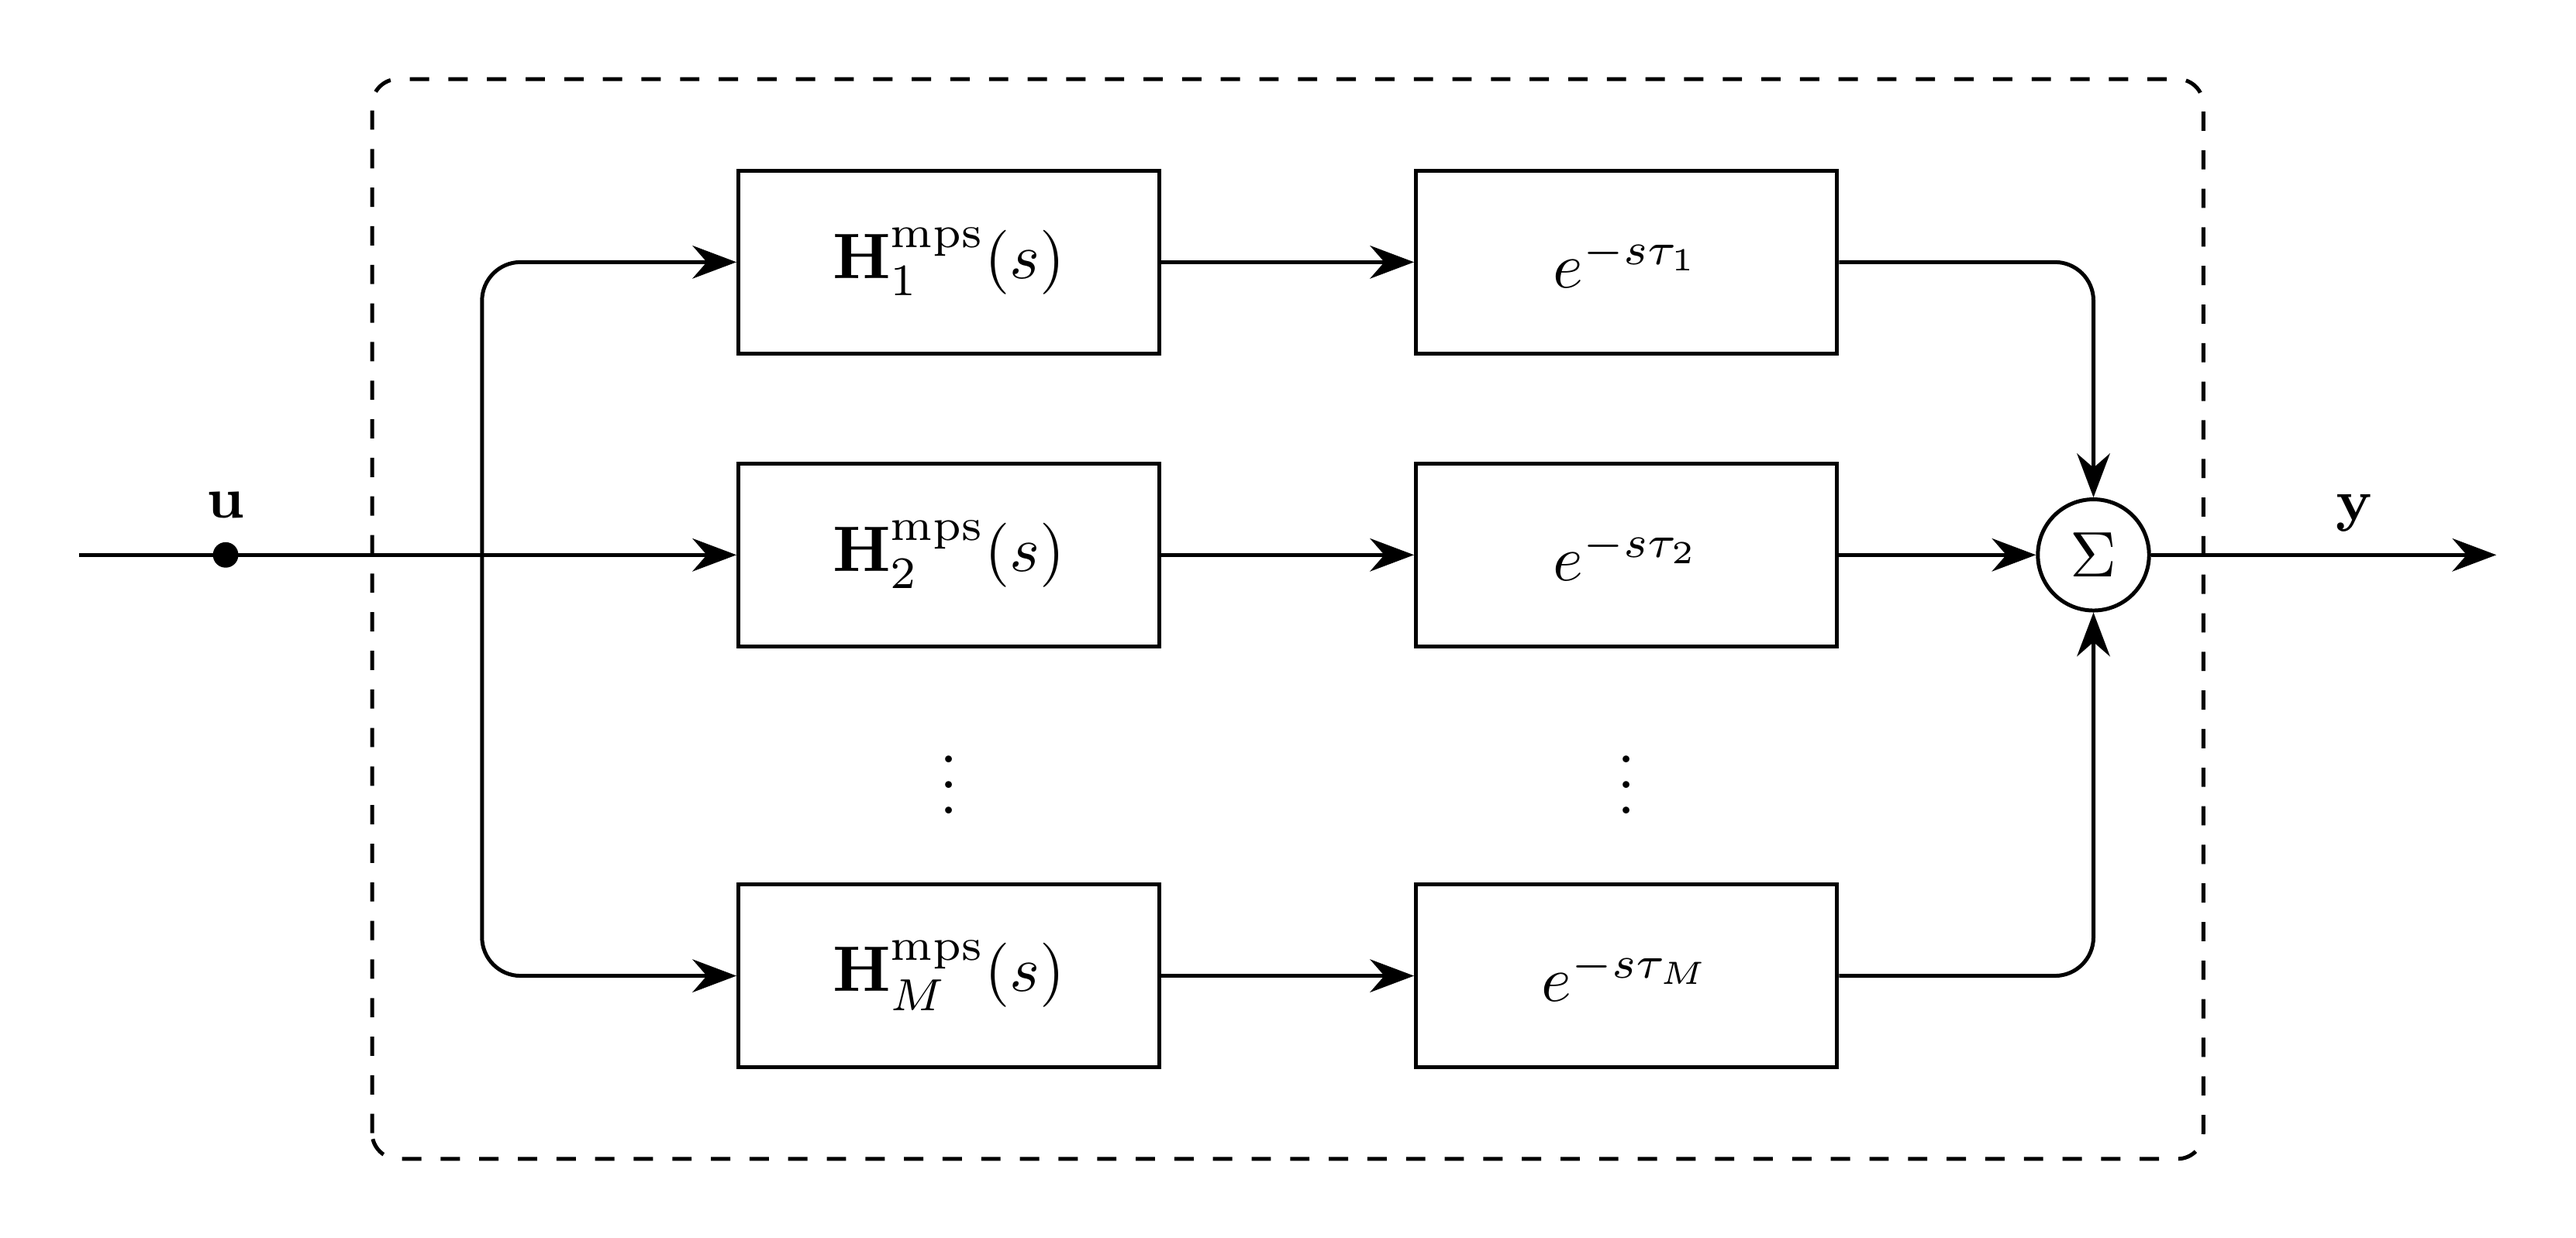
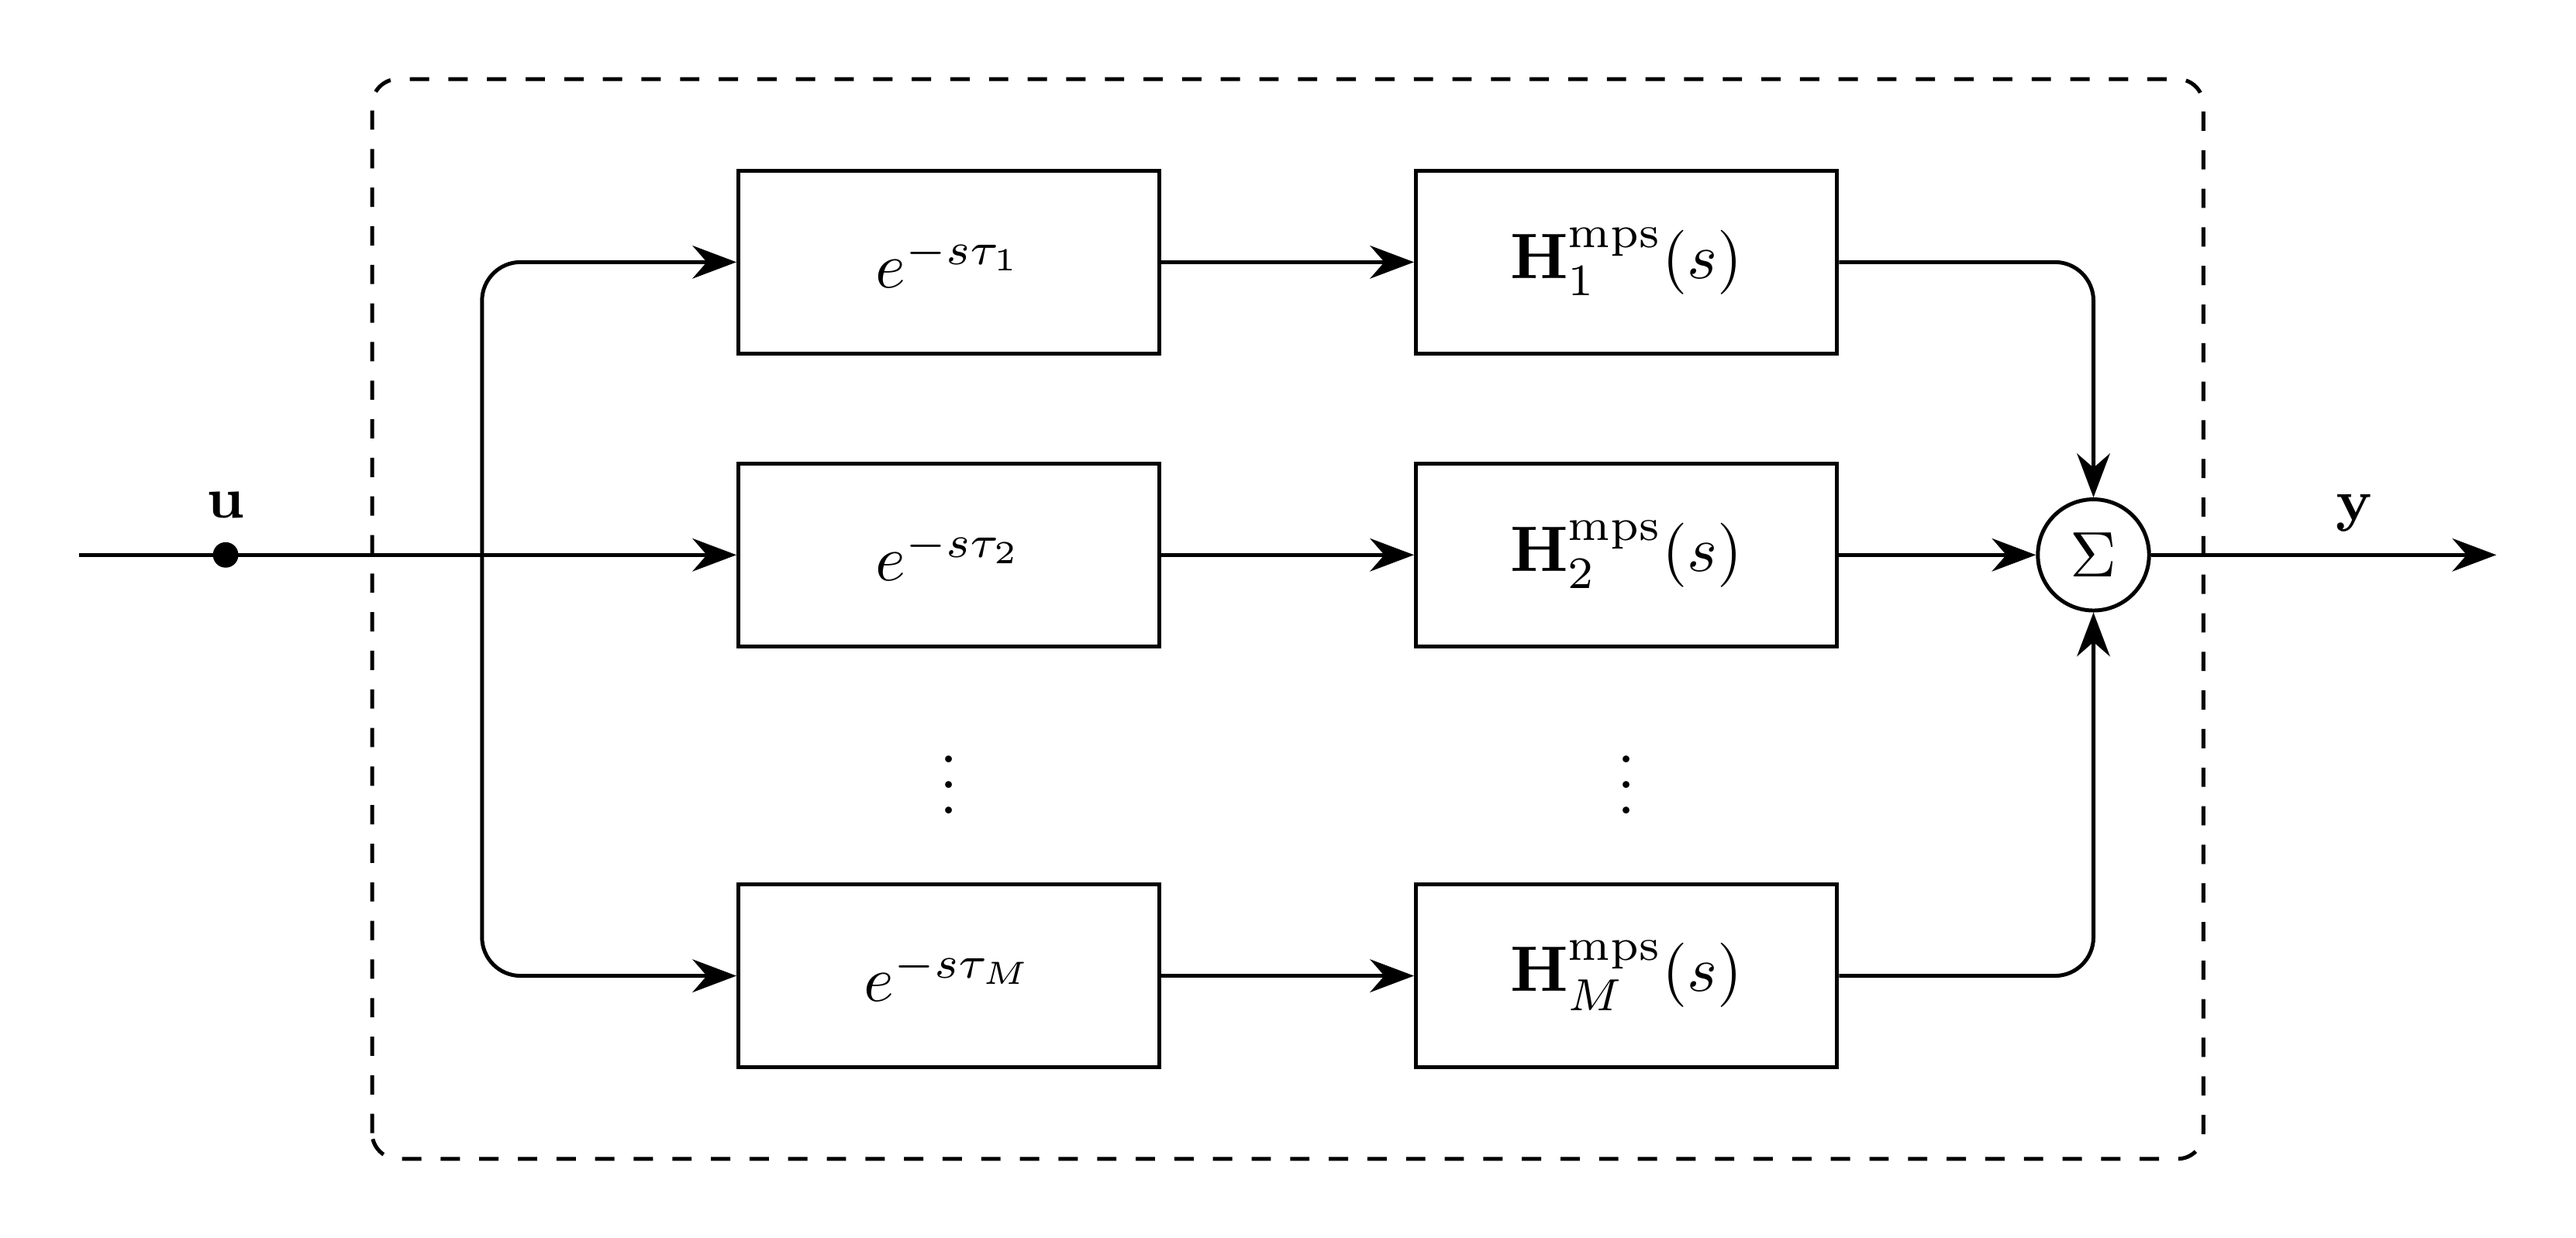
Update diagrams [skip ci]

diff --git a/docs/Figures/EMT/Propagation/diagram.tex b/docs/Figures/EMT/Propagation/diagram.tex
@@ -13,10 +13,10 @@
     sig/.style    = {font=\small}
 ]
 
-% Modal branches: rational shaping followed by delay
+% Modal branches: delay followed by rational shaping
 \foreach \i/\lab/\y in {1/1/1.6, 2/2/0, N/M/-2.3} {
-    \node[block] (H\i) at (-1.85, \y) {$\mathbf{H}^{\text{mps}}_{\lab}(s)$};
-    \node[block] (D\i) at ( 1.85, \y) {$e^{-s\tau_{\lab}}$};
+    \node[block] (D\i) at (-1.85, \y) {$e^{-s\tau_{\lab}}$};
+    \node[block] (H\i) at ( 1.85, \y) {$\mathbf{H}^{\text{mps}}_{\lab}(s)$};
 }
 \node at (-1.85, -1.15) {$\vdots$};
 \node at ( 1.85, -1.15) {$\vdots$};
@@ -24,18 +24,18 @@
 % Fan-out from a single internal point
 \coordinate (split) at (-4.4, 0);
 \draw[line] (-6.6, 0) -- (split);
-\draw[->, line] (split) -- (H2.west);
-\foreach \b in {H1, HN}
+\draw[->, line] (split) -- (D2.west);
+\foreach \b in {D1, DN}
     \draw[->, line] (split) |- (\b.west);
 
 % Line series connections
 \foreach \i in {1, 2, N}
-    \draw[->, line] (H\i.east) -- (D\i.west);
+    \draw[->, line] (D\i.east) -- (H\i.west);
 
 % Fan-in to summation
 \node[sum] (S) at (4.4, 0) {$\Sigma$};
-\draw[->, line] (D2.east) -- (S);
-\foreach \b/\a in {D1/north, DN/south}
+\draw[->, line] (H2.east) -- (S);
+\foreach \b/\a in {H1/north, HN/south}
     \draw[->, line] (\b.east) -| (S.\a);
 \draw[->, line] (S.east) -- (6.6, 0) node[sig, pos=0.59, above] {$\mathbf{y}$};
 

diff --git a/docs/Figures/EMT/LineDistributed/diagram.tex b/docs/Figures/EMT/LineDistributed/diagram.tex
@@ -20,11 +20,11 @@
 \node[sum]   (sk)  at (-4.4, -2.4) {$\Sigma$};   % wave former at k
 
 \draw[->, line] (-8.4, 0) -- (Yck.west);
-\node[signal, label={[sig]above:$\mathbf{v}_{\text{left}}$}] at (-7.6, 0) {};
+\node[signal, label={[sig]above:$\mathbf{v}_{1}$}] at (-7.6, 0) {};
 
 \draw[->, line] (Yck.north) -- (Sk);
 \draw[->, line] (Yck.south) -- (sk);
-\draw[->, line] (Sk.west) -- (-8.4, 2.4) node[sig, pos=0.79, above] {$\mathbf{i}^{\text{inj}}_{\text{left}}$};
+\draw[->, line] (Sk.west) -- (-8.4, 2.4) node[sig, pos=0.79, above] {$\mathbf{i}^{\text{inj}}_{1}$};
 
 % i_k tap into wave former (hops over the v_k lead)
 \draw[line]     (-6.0, 2.4) -- (-6.0,  0.14);
@@ -36,11 +36,11 @@
 \node[sum]   (Sm)  at (4.4, -2.4) {$\Sigma$};    % KCL at m
 
 \draw[->, line] (8.4, 0) -- (Ycm.east);
-\node[signal, label={[sig]above:$\mathbf{v}_{\text{right}}$}] at (7.6, 0) {};
+\node[signal, label={[sig]above:$\mathbf{v}_{2}$}] at (7.6, 0) {};
 
 \draw[->, line] (Ycm.north) -- (sm);
 \draw[->, line] (Ycm.south) -- (Sm);
-\draw[->, line] (Sm.east) -- (8.4, -2.4) node[sig, pos=0.79, above] {$\mathbf{i}^{\text{inj}}_{\text{right}}$};
+\draw[->, line] (Sm.east) -- (8.4, -2.4) node[sig, pos=0.79, above] {$\mathbf{i}^{\text{inj}}_{2}$};
 
 % i_m tap into wave former (hops over the v_m lead)
 \draw[line]     (6.0, -2.4) -- (6.0, -0.14);
